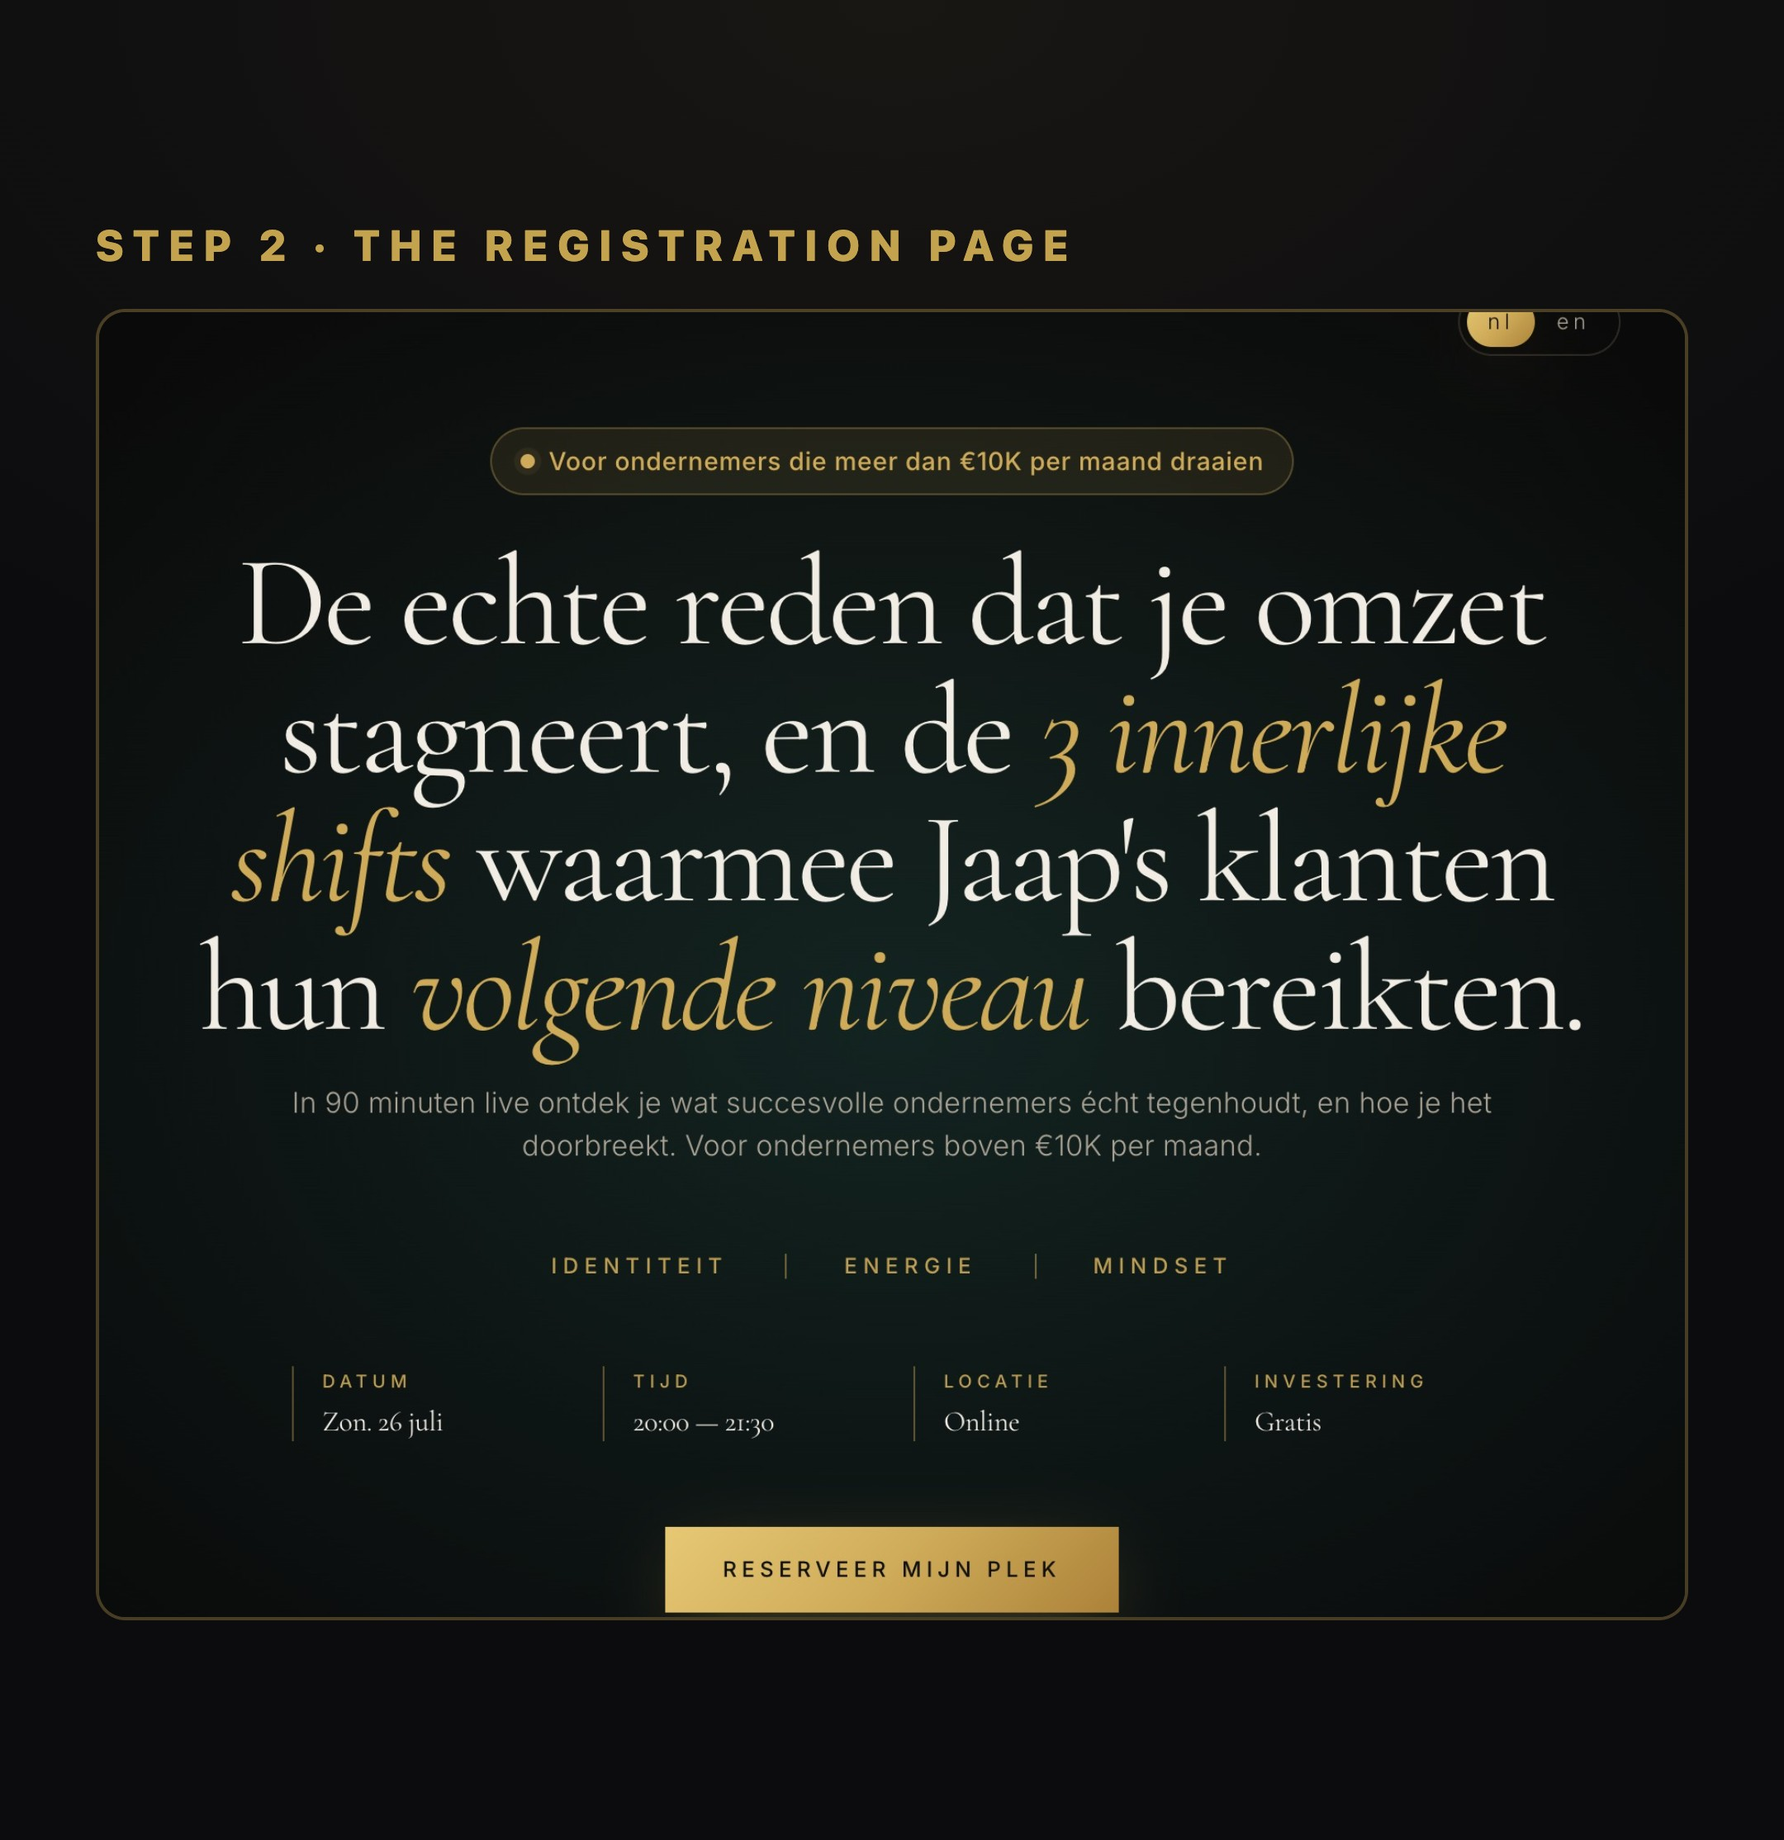
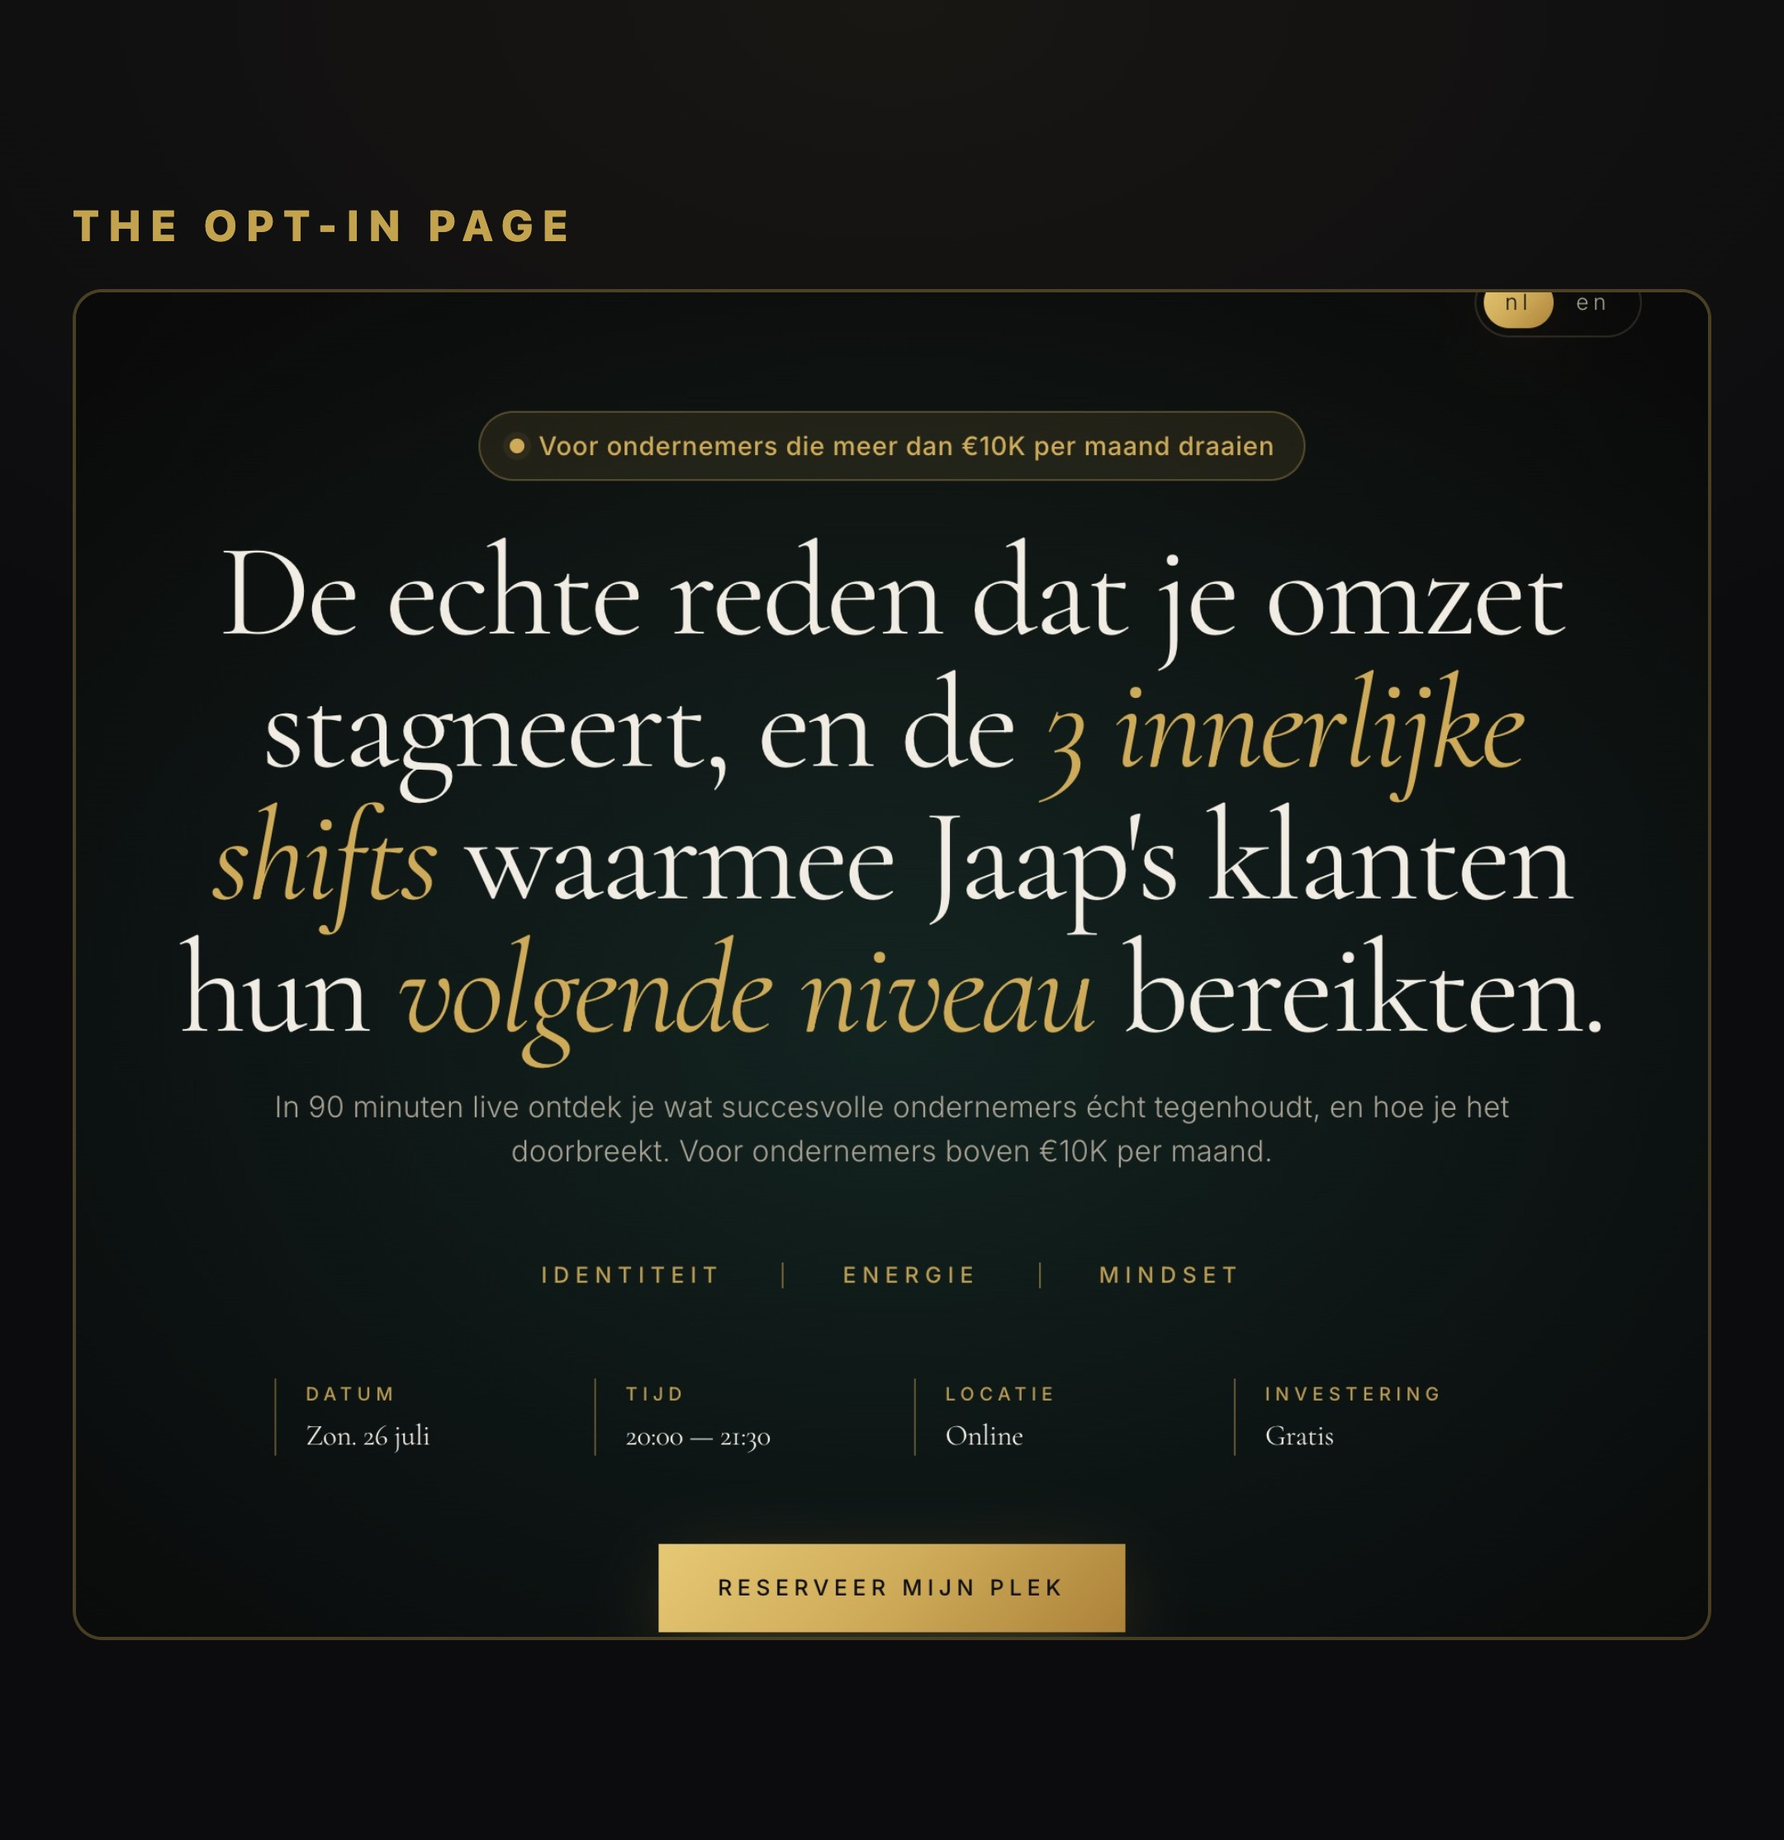
Funnel v3: opt-in page structure breakdown, real form + qualifier, thank-you next steps, analytics + what we track

diff --git a/frames-funnel.html b/frames-funnel.html
@@ -67,6 +67,41 @@
   .dg .bx .bs{font-size:23px;color:var(--mut);font-weight:600;margin-top:7px;line-height:1.25}
   .dg .cn{height:52px;width:100%;position:relative}
   .dg .cn svg{position:absolute;inset:0;width:100%;height:100%;overflow:visible}
+
+  .stack{display:flex;flex-direction:column;gap:13px;margin-top:6px}
+  .el{display:flex;align-items:center;gap:18px;border:2px solid rgba(255,255,255,.1);border-radius:14px;
+    padding:17px 22px;background:rgba(255,255,255,.02)}
+  .el.key{border-color:rgba(196,163,79,.5);background:rgba(196,163,79,.09)}
+  .el .i{font-family:var(--mono);font-size:22px;font-weight:800;color:var(--gold);width:38px;flex:0 0 38px}
+  .el .n{font-size:31px;font-weight:700}
+  .el .n small{display:block;font-size:22px;color:var(--mut);font-weight:600;margin-top:3px}
+  .steps3{display:flex;flex-direction:column;gap:16px;margin-top:12px}
+  .s3{display:flex;gap:18px;align-items:flex-start;border:2px solid rgba(196,163,79,.32);border-radius:16px;
+    padding:20px 24px;background:rgba(196,163,79,.06)}
+  .s3 .num{font-family:var(--mono);font-size:30px;font-weight:800;color:var(--gold);flex:0 0 44px}
+  .s3 .tx{font-size:31px;font-weight:700;line-height:1.25}
+  .s3 .tx small{display:block;font-size:23px;color:var(--mut);font-weight:600;margin-top:5px}
+  .vid{border:2px solid rgba(196,163,79,.35);border-radius:16px;height:200px;display:flex;align-items:center;
+    justify-content:center;background:rgba(196,163,79,.05);margin-top:4px}
+  .vid .p{width:70px;height:70px;border-radius:50%;border:3px solid var(--gold);display:flex;align-items:center;
+    justify-content:center;color:var(--gold);font-size:28px}
+  .trk{display:flex;flex-direction:column;gap:14px;margin-top:8px}
+  .tr3{border:2px solid rgba(196,163,79,.34);border-radius:15px;padding:20px 24px;background:rgba(196,163,79,.06)}
+  .tr3 .k{font-size:24px;letter-spacing:.14em;text-transform:uppercase;color:var(--gold);font-weight:800}
+  .tr3 .v{font-size:30px;font-weight:700;margin-top:8px;line-height:1.28}
+
+  .mockbig{background:#111116;border:2px solid rgba(196,163,79,.32);border-radius:18px;padding:30px 32px 26px}
+  .mockbig .mt{font-family:Georgia,serif;font-size:44px;text-align:center;font-weight:600}
+  .mockbig .mt i{color:var(--gold-soft)}
+  .mockbig .ms{font-size:24px;color:var(--mut);text-align:center;margin-top:10px;line-height:1.4}
+  .mockbig .fld{margin-top:22px}
+  .mockbig .fl{font-size:19px;letter-spacing:.16em;text-transform:uppercase;color:var(--gold);font-weight:800}
+  .mockbig .fi{border-bottom:2px solid rgba(255,255,255,.22);padding:12px 0 10px;font-size:26px;color:#6d6862}
+  .mockbig .btn{margin-top:26px;background:linear-gradient(180deg,#c9a955,#9d8340);color:#12100c;text-align:center;
+    padding:18px;border-radius:6px;font-size:24px;letter-spacing:.16em;font-weight:800}
+  .opts2{display:flex;flex-direction:column;gap:12px;margin-top:22px}
+  .opts2 .o{border:2px solid rgba(255,255,255,.16);border-radius:9px;padding:16px 18px;font-size:25px;color:#c9c4ba}
+  .opts2 .o.q{border-color:var(--gold);background:rgba(196,163,79,.13);color:var(--gold-soft);font-weight:700}
 </style>
 </head>
 <body>
@@ -75,7 +110,7 @@
 <div class="f" id="g1">
   <div class="eb">One webinar · nine days</div>
   <h1>$5,700 in ads. <span>$100,000</span> back.</h1>
-  <div class="sub">A 17.5&times; return on ad spend. Here is the exact funnel that did it.</div>
+  <div class="sub">A 17.5&times; return on ad spend. Here is the exact webinar funnel that did it.</div>
 </div>
 
 <!-- g2 · the architecture, simplified for the board -->
@@ -119,65 +154,89 @@
   </div>
 </div>
 
-<!-- g3 · the real page -->
-<div class="f" id="g3">
-  <div class="eb">Step 2 · the registration page</div>
+<!-- g3 · the opt-in page itself -->
+<div class="f" id="g3" style="padding:46px 44px">
+  <div class="eb">The opt-in page</div>
   <div class="shot"><img src="img/optin-full.jpg" alt=""></div>
 </div>
 
-<!-- g4 · the structure of that page -->
-<div class="f" id="g4">
-  <div class="eb">Every page we test uses this order</div>
-  <ul class="pts">
-    <li><b>Qualifying line</b> above the headline<small>“for entrepreneurs already doing more than €10K a month”</small></li>
-    <li><b>The headline</b> names the real reason they are stuck</li>
-    <li><b>Three pillars</b>, so the mechanism has a shape</li>
-    <li><b>Date, time, location, price</b> in one row</li>
-    <li><b>One button</b>. Nothing else clickable.</li>
-  </ul>
+<!-- g4 · the structure of the opt-in page -->
+<div class="f" id="g4" style="padding:46px 46px">
+  <div class="eb">What is actually on it, in order</div>
+  <div class="stack">
+    <div class="el key"><span class="i">01</span><span class="n">Headline<small>the real reason they are stuck</small></span></div>
+    <div class="el"><span class="i">02</span><span class="n">Sub-headline<small>what the 90 minutes actually covers</small></span></div>
+    <div class="el"><span class="i">03</span><span class="n">About me<small>why this person, and not someone else</small></span></div>
+    <div class="el key"><span class="i">04</span><span class="n">What you will learn<small>three pillars, so the mechanism has a shape</small></span></div>
+    <div class="el"><span class="i">05</span><span class="n">Case studies<small>named clients, real numbers</small></span></div>
+    <div class="el key"><span class="i">06</span><span class="n">A freebie for signing up<small>the reason to register today instead of later</small></span></div>
+  </div>
 </div>
 
-<!-- g5 · the qualifying line does the work -->
-<div class="f" id="g5">
-  <div class="eb">The line most people would delete</div>
-  <div class="shot"><img src="img/optin-head.jpg" alt=""></div>
-  <div class="sub" style="font-size:36px">Its whole job is to make the wrong person leave.
-    <b style="color:var(--gold-soft)">It raised the opt-in rate, not lowered it.</b></div>
-</div>
-
-<!-- g6 · step one of the form -->
-<div class="f" id="g6">
+<!-- g5 · form step one -->
+<div class="f" id="g5" style="padding:44px 44px">
   <div class="eb">Form, step one</div>
-  <h1 class="sm">Name, email, <span>then it registers them.</span></h1>
-  <div class="sub">Keep it to what you will actually use. Every extra field on this step costs you registrations.</div>
+  <div class="mockbig">
+    <div class="mt">Register for <i>free</i></div>
+    <div class="ms">Receive the access link for the webinar replay immediately after registration.</div>
+    <div class="fld"><div class="fl">First name</div><div class="fi">Your first name</div></div>
+    <div class="fld"><div class="fl">Email address</div><div class="fi">you@example.com</div></div>
+    <div class="fld"><div class="fl">Phone number</div><div class="fi">+44</div></div>
+    <div class="btn">NEXT</div>
+  </div>
+  <div class="sub" style="font-size:32px;margin-top:22px">The moment this submits, <b style="color:var(--gold-soft)">they are registered.</b></div>
 </div>
 
-<!-- g7 · step two, the qualifier -->
-<div class="f" id="g7">
+<!-- g6 · the qualifier -->
+<div class="f" id="g6" style="padding:44px 44px">
   <div class="eb">Form, step two · after they are registered</div>
-  <div class="q">
-    <div class="lab">One question</div>
-    <div class="qq">What's your current monthly revenue?<br><span style="font-size:28px;color:var(--mut);font-weight:600">(5 seconds)</span></div>
-    <div class="opts" style="flex-direction:column;gap:10px"><span>No business yet</span><span>Under €10K per month</span><span class="win">€10K to €50K</span><span class="win">€50K to €200K</span><span class="win">€200K+</span></div>
+  <div class="mockbig">
+    <div class="mt">One <i>last</i> question</div>
+    <div class="ms">What's your current monthly revenue? (5 seconds)</div>
+    <div class="opts2">
+      <div class="o">No business yet</div>
+      <div class="o">Under €10K per month</div>
+      <div class="o q">€10K to €50K per month</div>
+      <div class="o q">€50K to €200K per month</div>
+      <div class="o q">€200K+ per month</div>
+    </div>
   </div>
-  <div class="sub" style="font-size:34px">It goes <b style="color:var(--gold-soft)">after</b> the registration, never in front of it.
-    Gate the registration on this and you lose half of them.</div>
+  <div class="sub" style="font-size:31px;margin-top:20px">Gate the registration on this and <b style="color:var(--gold-soft)">you lose half of them.</b></div>
 </div>
 
-<!-- g8 · the thank you page routing -->
-<div class="f" id="g8">
-  <div class="eb">Thank-you page · two versions</div>
-  <div class="split2">
-    <div class="box on"><div class="t">Qualified</div>
-      <div class="d">Fires the conversion event. <b>Meta learns what your buyer looks like.</b> Community and game-day info here.</div></div>
-    <div class="box off"><div class="t">Everyone else</div>
-      <div class="d">Still registered, still welcome. <b>No event fires.</b> They do not get to teach the algorithm.</div></div>
+<!-- g7 · thank-you page structure -->
+<div class="f" id="g7" style="padding:44px 46px">
+  <div class="eb">The thank-you page</div>
+  <div class="vid"><div class="p">&#9654;</div></div>
+  <div class="sub" style="font-size:26px;margin-top:12px;margin-bottom:4px">A short video, then three next steps.</div>
+  <div class="steps3">
+    <div class="s3"><span class="num">1</span><span class="tx">Join the WhatsApp<small>the freebie and the exclusive content live in there</small></span></div>
+    <div class="s3"><span class="num">2</span><span class="tx">Add it to your calendar</small></span></div>
+    <div class="s3"><span class="num">3</span><span class="tx">Check for the confirmation email</small></span></div>
   </div>
-  <div class="sub" style="font-size:34px;margin-top:26px">This is the difference between buying leads and buying buyers.</div>
 </div>
 
-<!-- g9 · CTA -->
-<div class="f" id="g9">
+<!-- g8 · the analytics page -->
+<div class="f" id="g8" style="padding:46px 44px">
+  <div class="eb">And everything lands here</div>
+  <div class="shot"><img src="img/s-chain.jpg" alt=""></div>
+</div>
+
+<!-- g9 · what we track -->
+<div class="f" id="g9" style="padding:46px 46px">
+  <div class="eb">What we track on it</div>
+  <div class="trk">
+    <div class="tr3"><div class="k">Opt-in rate per variant</div>
+      <div class="v">So the A/B test can actually be read, instead of guessed at</div></div>
+    <div class="tr3"><div class="k">Cost per qualified opt-in</div>
+      <div class="v">Not cost per lead. The one that predicts money.</div></div>
+    <div class="tr3"><div class="k">Which ads bring the best leads</div>
+      <div class="v">Not the cheapest clicks. The ones who answered €10K+.</div></div>
+  </div>
+</div>
+
+<!-- g10 · CTA -->
+<div class="f" id="g10">
   <div class="eb">The whole build</div>
   <h1 class="sm">Comment <span>FUNNEL</span></h1>
   <div class="sub">I'll send you our opt-in form SOPs: the page structure, the two-step spec and the thank-you routing.</div>

diff --git a/index.html b/index.html
@@ -103,17 +103,18 @@
     },
 
     'funnel': {
-      name: 'The funnel · $5,700 → $100,000',
+      name: 'The webinar funnel · $5,700 → $100,000',
       beats: [
-        {img:'img/g1.jpg', s:"Five thousand seven hundred dollars in ads came back as a hundred grand. Nine days, one webinar. That's a seventeen and a half times return. Here's the funnel that did it."},
+        {img:'img/g1.jpg', s:"Five thousand seven hundred dollars in ads came back as a hundred grand. Nine days, one webinar. Seventeen and a half times return. Here's the exact webinar funnel that did it."},
         {img:'img/g2.jpg', s:"This is the whole thing. Four opt-in pages A/B tested, all feeding one two-step form. The form splits into two thank-you pages. And everything lands on one custom analytics page."},
-        {img:'img/g3.jpg', s:"This is the page. Every one of those ads pointed here, and it's the piece that decides who ends up in the room."},
-        {img:'img/g4.jpg', s:"Every page we build uses this same order. Qualifying line above the headline. A headline that names why they're actually stuck. Three pillars. Date, time, location, price in one row. One button."},
-        {img:'img/g5.jpg', s:"That top line is the one most people would delete. Its whole job is to make the wrong person leave. It put the opt-in rate up, not down."},
-        {img:'img/g6.jpg', s:"Step one is short on purpose, and the moment it submits they are registered. Nothing that happens after it can cost you the lead."},
-        {img:'img/g7.jpg', s:"Step two is one question, and it comes after they're already registered. Put it in front of the registration instead and you lose about half of them."},
-        {img:'img/g8.jpg', s:"Then two thank-you pages. Qualified fires the conversion event, so Meta learns what your buyer looks like. Everyone else is still registered, they just don't get to teach the algorithm."},
-        {img:'img/g9.jpg', s:"Comment FUNNEL and I'll send you our opt-in form SOPs. The page structure, the two-step spec and the thank-you routing."}
+        {img:'img/g3.jpg', s:"This is the opt-in page. Every one of those ads pointed here."},
+        {img:'img/g4.jpg', s:"Six things on it, in this order. Headline names the real reason they're stuck. Sub-headline says what the ninety minutes covers. About me. What you'll learn, three pillars. Case studies with real numbers. And a freebie for signing up."},
+        {img:'img/g5.jpg', s:"Form step one. Name, email, phone. The moment that submits, they are registered, and nothing after it can cost you the lead."},
+        {img:'img/g6.jpg', s:"Step two is one question, and it comes after they're already registered. Put it in front of the registration instead and you lose about half of them."},
+        {img:'img/g7.jpg', s:"The thank-you page is a short video and three next steps. Join the WhatsApp, that's where the freebie and the exclusive content live. Add it to your calendar. Check for the confirmation email."},
+        {img:'img/g8.jpg', s:"And every single one of those pages reports into here."},
+        {img:'img/g9.jpg', s:"Three things we track. Opt-in rate per variant, so the A/B test can actually be read. Cost per qualified opt-in, not cost per lead. And which ads bring the people who answered ten grand or more."},
+        {img:'img/g10.jpg', s:"Comment FUNNEL and I'll send you our opt-in form SOPs."}
       ]
     },
 
